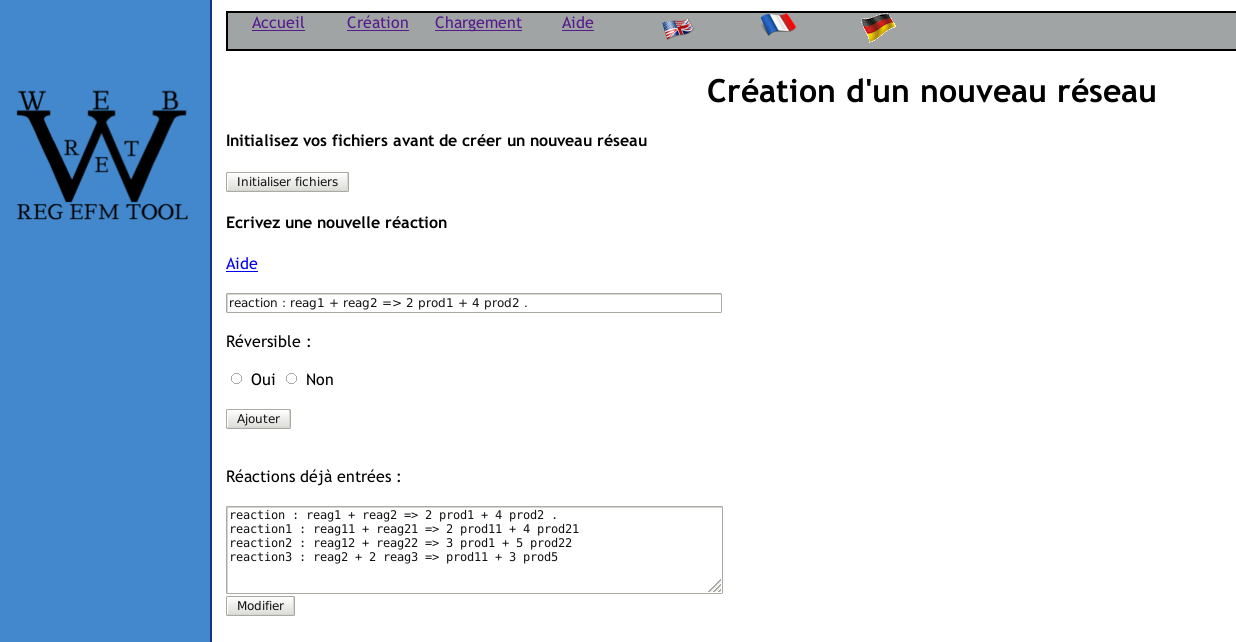
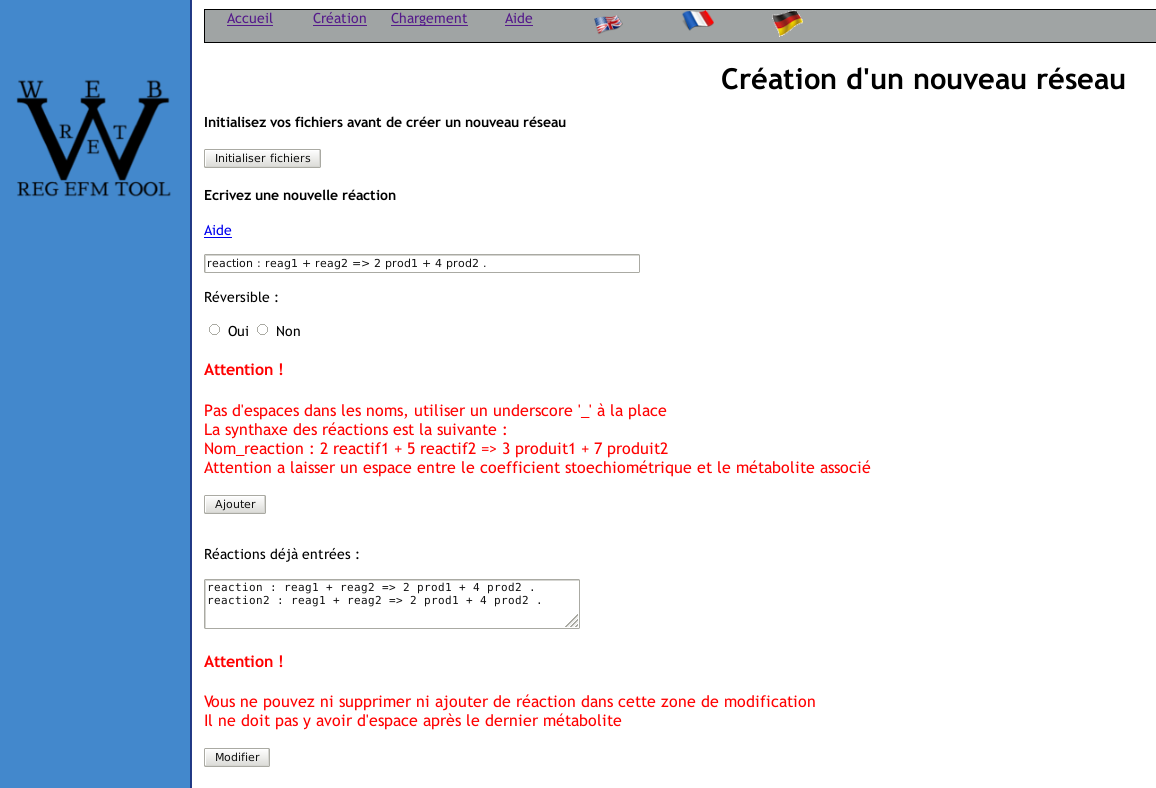
modif mep create

Changed region(s): [[0.0, 0.0, 1.0, 1.0]]

diff --git a/Rapport/conception.tex b/Rapport/conception.tex
@@ -81,7 +81,7 @@ Enfin, l'utilisateur peut aussi générer un fichier au format \emph{.dat} (Figu
   	\end{center}	
 \end{figure}
 
-Si l'utilisateur ne sait pas comment faire, il lui suffit de cliquer sur \textit{Aide} et une nouvelle fen\^etre de navigation (Figure \ref{helCreation}) appara\^itra afin de la guider. Cette page est automatiquement traduite dans la langue de la page courante. 
+Si l'utilisateur ne sait pas comment faire, il lui suffit de cliquer sur \textit{Aide} et une nouvelle fen\^etre de navigation (Figure \ref{helpCreation}) appara\^itra afin de la guider. Cette page est automatiquement traduite dans la langue de la page courante. 
 
 Quand l'utilisateur a fini de créer toutes les réactions qui composent son réseau, il clique sur le bouton \emph{\'Etape suivante} et arrive alors sur la page de création des règles des gènes.
 

diff --git a/WRET/create.php b/WRET/create.php
@@ -173,12 +173,13 @@
 		
 		<form method="post" action="modifier.php">
 			 <textarea name="reactions" cols="100" rows="25"><?php echo file_get_contents( 'reactionTemp2.txt' ); ?> </textarea><br/>			
-			 <input type="submit" value="<?php echo TXT_MODIFY_BUTTON; ?>" />
-			</form>
+			 
 			<FONT color="red" size="4">
 				<h4><?php echo TXT_CREATION_WARNING_TITLE; ?></h4>
 				<p> <?php echo TXT_CREATION_WARNING_2; ?></p>
 			</FONT>
+			<input type="submit" value="<?php echo TXT_MODIFY_BUTTON; ?>" />
+		</form>
 		<br/> <br/>
 		
 		<h4><?php echo TXT_CREATION_FINISH; ?></h4>
